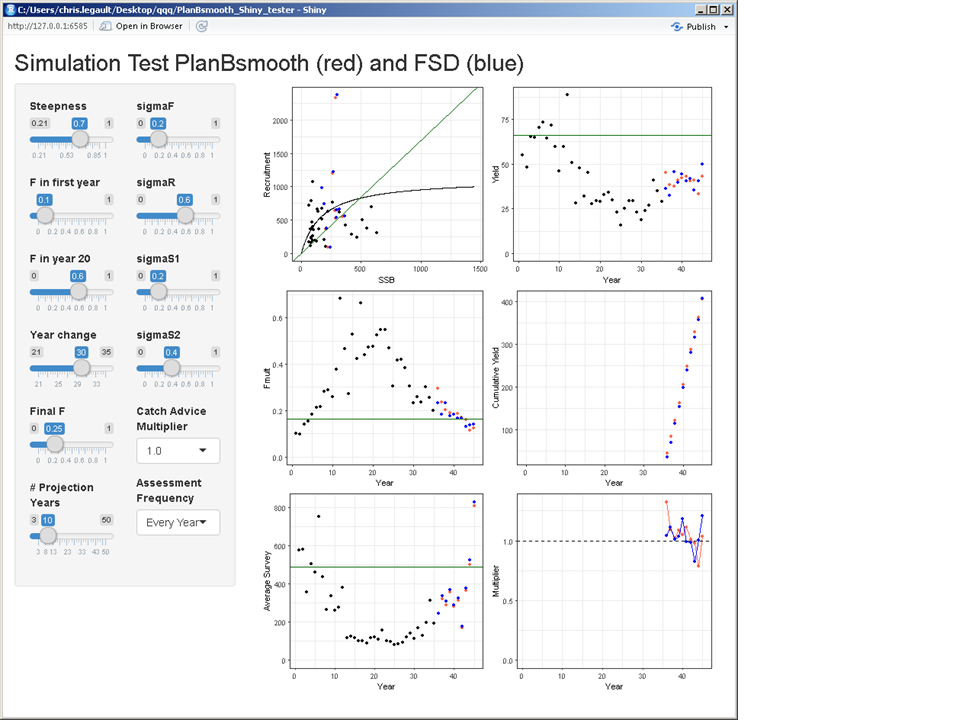
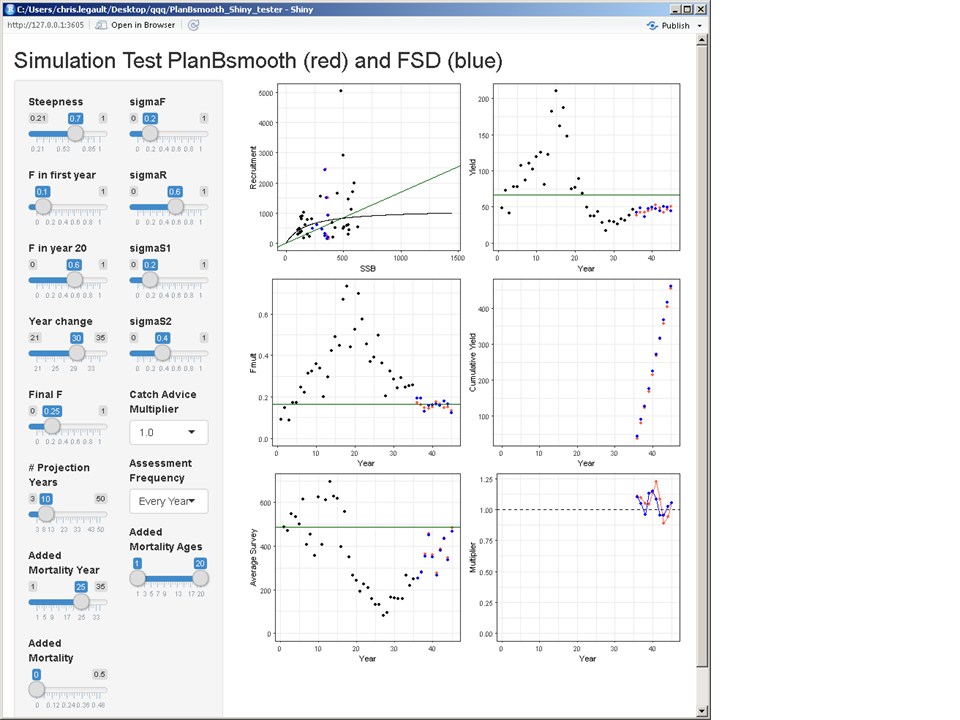
add Added Mortality to calculations

diff --git a/README.md b/README.md
@@ -18,5 +18,8 @@ Controls for the simulation testing are:
   + Note that sigma values are applied as exp(base_value + rnorm * sigma - 0.5 * sigma * sigma)
 * Catch Advice Multiplier - applies only to PlanBsmooth
 * Assessment Frequency - catch held constant from previous value if no assessment in given year
+* Added Mortality Year - year when additional mortality begins, continues to end of projection years, zero prior to this year
+* Added Mortality - a source of mortality added to the total but not included in reference point calculations, when set to zero the Added Mortality Year and Ages have no impact
+* Added Mortality Ages - age range for added mortality, zero for ages not selected
 
 In the plots, black dots indicate common values for both methods during base years (start at same point). Red dots show effect of applying PlanBsmooth to determine catch advice during projection years. Blue dots show effect of applying FSD to determine catch advice during projection years. Green solid lines show deterministic MSY related reference points. FSD uses default settings of Kp=0.75 and Kd=0.50 with 5 year time periods to determine slopes.
